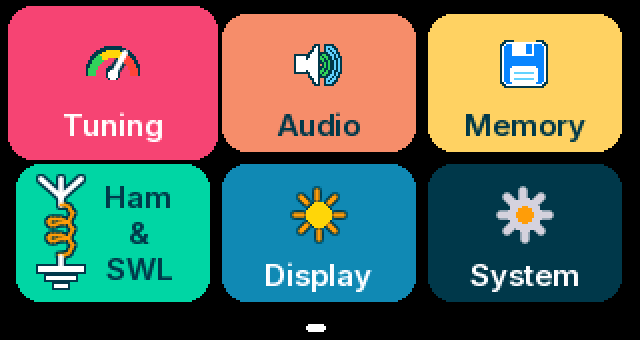
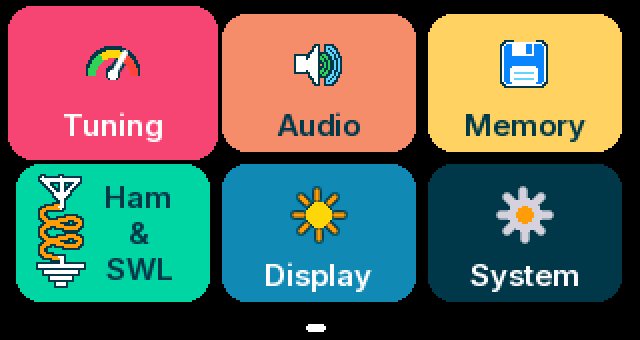
Ham & SWL tile: the picture drawn again after the international amateur radio symbol
Aerial as a triangle on the wire, a coil of two turns with the symbol's own curves, earth as bars; kept as exact pixels (tools/ham_icon.py) in place of lines drawn at run time, which came out blurred.

Changed region(s): [[0.0312, 0.5, 0.1562, 0.8529]]

diff --git a/ats-mini/TileDraw.h b/ats-mini/TileDraw.h
@@ -85,6 +85,54 @@ static void tileFillGradient(S &s, int x, int y, int w, int h, int r, uint16_t t
   }
 }
 
+// The Ham & SWL picture, after the international amateur radio symbol: an
+// aerial (a triangle, point down, on the wire), a coil of two turns drawn
+// with the symbol's own curves, and earth. Two masks, one bit per pixel, 31
+// wide and 59 high: the wire and the coil.
+// tools/ham_icon.py writes the next two tables
+static const uint32_t tileHamWire[59] =
+{
+  0x00000000, 0x00008040, 0x01FFFFE0, 0x01FFFFC0, 0x00C18380, 0x00618300,
+  0x00318600, 0x00198C00, 0x000D9800, 0x000FF000, 0x0007F000, 0x0003E000,
+  0x0001C000, 0x00018000, 0x00018000, 0x00018000, 0x0001C000, 0x00008000,
+  0x00000000, 0x00000000, 0x00000000, 0x00000000, 0x00000000, 0x00000000,
+  0x00000000, 0x00000000, 0x00000000, 0x00000000, 0x00000000, 0x00000000,
+  0x00000000, 0x00000000, 0x00000000, 0x00000000, 0x00000000, 0x00000000,
+  0x00000000, 0x00000000, 0x00000000, 0x00000000, 0x00000000, 0x0001C000,
+  0x00018000, 0x00018000, 0x00018000, 0x07FFFFF0, 0x07FFFFF0, 0x00000000,
+  0x00FFFF80, 0x00FFFF80, 0x00000000, 0x001FFC00, 0x001FFC00, 0x00000000,
+  0x0003E000, 0x0003E000, 0x00000000, 0x00000000, 0x00000000,
+};
+static const uint32_t tileHamCoil[59] =
+{
+  0x00000000, 0x00000000, 0x00000000, 0x00000000, 0x00000000, 0x00000000,
+  0x00000000, 0x00000000, 0x00000000, 0x00000000, 0x00000000, 0x00000000,
+  0x00000000, 0x00000000, 0x00000000, 0x00007000, 0x0000FF00, 0x00007FC0,
+  0x000000E0, 0x00000060, 0x00000060, 0x007C00E0, 0x01FFC1C0, 0x03C7FF80,
+  0x03007F00, 0x0381FF80, 0x01FFE3C0, 0x00FE00E0, 0x00000060, 0x00000060,
+  0x007C00E0, 0x01FFC1C0, 0x03C7FF80, 0x03007F00, 0x0381FF80, 0x01FFE3C0,
+  0x00FE00E0, 0x00000060, 0x00000060, 0x000000E0, 0x000007C0, 0x0000FF80,
+  0x0000F800, 0x00000000, 0x00000000, 0x00000000, 0x00000000, 0x00000000,
+  0x00000000, 0x00000000, 0x00000000, 0x00000000, 0x00000000, 0x00000000,
+  0x00000000, 0x00000000, 0x00000000, 0x00000000, 0x00000000,
+};
+// End of the tables of tools/ham_icon.py
+
+// One of those masks, centred on (x, y), in colour c
+template<typename S>
+static void tileDrawMask(S &s, const uint32_t *rows, int x, int y, uint16_t c)
+{
+  for(int r = 0 ; r < 59 ; r++)
+    for(int b = 0 ; b < 31 ; )
+    {
+      if(!(rows[r] >> b & 1)) { b++; continue; }
+      int e = b;
+      while(e < 31 && (rows[r] >> e & 1)) e++;
+      s.drawFastHLine(x - 15 + b, y - 29 + r, e - b, c);
+      b = e;
+    }
+}
+
 // Icons are drawn in a 26x26 box centred on (x, y), in colour c
 template<typename S>
 static void tileDrawIcon(S &s, TileIcon icon, int x, int y, uint16_t c, uint16_t bg)
@@ -187,27 +235,9 @@ static void tileDrawIcon(S &s, TileIcon icon, int x, int y, uint16_t c, uint16_t
       s.drawWideLine(x - 2, y - 6, x + 13, y - 6, 1.5f, c);
       s.drawWideLine(x - 13, y + 10, x + 13, y + 10, 1.0f, c);
       break;
-    case TI_HAM:         // A station as a circuit diagram draws it: aerial, coil, earth. As tall as the tile: it stands at the tile's side
-      s.drawWideLine(x, y - 27, x, y - 14, 1.3f, c);
-      s.drawWideLine(x, y - 18, x - 10, y - 27, 1.3f, c);
-      s.drawWideLine(x, y - 18, x + 10, y - 27, 1.3f, c);
-      {
-        // The coil: one wire going round on its way down. It leaves the
-        // aerial's wire at the coil's highest point and meets the earth's wire
-        // at its lowest, both on the line of the wire
-        float px = x, py = y - 14;
-        for(int i = 1 ; i <= 40 ; i++)
-        {
-          float t = -1.5707963f + i * 0.3926991f;
-          float nx = x + 6.0f * cosf(t), ny = y - 14 + 1.2732f * (t + 1.5707963f) + 3.0f * (sinf(t) + 1.0f);
-          s.drawWideLine(px, py, nx, ny, 0.8f, c);
-          px = nx; py = ny;
-        }
-      }
-      s.drawWideLine(x, y + 12, x, y + 17, 1.3f, c);
-      s.fillRect(x - 11, y + 17, 23, 3, c);
-      s.fillRect(x - 7, y + 22, 15, 2, c);
-      s.fillRect(x - 3, y + 26, 7, 2, c);
+    case TI_HAM:         // Aerial, coil and earth, as tall as the tile: it stands at the tile's side
+      tileDrawMask(s, tileHamWire, x, y, c);
+      tileDrawMask(s, tileHamCoil, x, y, c);
       break;
     case TI_BEACON:      // Mast with waves
       s.drawWideLine(x, y - 4, x - 6, y + 12, 1.2f, c);
@@ -614,26 +644,8 @@ static void tileDrawIconColor(S &s, TileIcon icon, int x, int y, uint16_t bg)
       s.drawWideLine(x - 13, y + 10, x + 13, y + 10, 1.0f, TC_W);
       break;
     case TI_HAM:         // Aerial, coil and earth: white wire, orange coil
-      s.drawWideLine(x, y - 27, x, y - 14, 1.3f, TC_W);
-      s.drawWideLine(x, y - 18, x - 10, y - 27, 1.3f, TC_W);
-      s.drawWideLine(x, y - 18, x + 10, y - 27, 1.3f, TC_W);
-      {
-        // The coil: one wire going round on its way down. It leaves the
-        // aerial's wire at the coil's highest point and meets the earth's wire
-        // at its lowest, both on the line of the wire
-        float px = x, py = y - 14;
-        for(int i = 1 ; i <= 40 ; i++)
-        {
-          float t = -1.5707963f + i * 0.3926991f;
-          float nx = x + 6.0f * cosf(t), ny = y - 14 + 1.2732f * (t + 1.5707963f) + 3.0f * (sinf(t) + 1.0f);
-          s.drawWideLine(px, py, nx, ny, 0.8f, TC_O);
-          px = nx; py = ny;
-        }
-      }
-      s.drawWideLine(x, y + 12, x, y + 17, 1.3f, TC_W);
-      s.fillRect(x - 11, y + 17, 23, 3, TC_W);
-      s.fillRect(x - 7, y + 22, 15, 2, TC_W);
-      s.fillRect(x - 3, y + 26, 7, 2, TC_W);
+      tileDrawMask(s, tileHamCoil, x, y, TC_O);
+      tileDrawMask(s, tileHamWire, x, y, TC_W);
       break;
     case TI_BEACON:      // Mast with orange waves
       s.drawWideLine(x, y - 4, x - 6, y + 12, 1.2f, TC_W);

diff --git a/tools/ham_icon.py b/tools/ham_icon.py
@@ -1,0 +1,106 @@
+#!/usr/bin/env python3
+"""Draw the picture of the Ham & SWL menu tile and write it into ats-mini/TileDraw.h.
+
+The picture follows the international amateur radio symbol (Wikimedia Commons,
+"International amateur radio symbol.svg" by Denelson83, released into the
+public domain): an aerial as a triangle, point down, on the wire; a coil; and
+earth as bars that get shorter. The coil's turns are the symbol's own curves,
+two of them where the symbol has four, and everything is made wider and
+heavier than in the symbol so that it reads on a screen 170 pixels high.
+
+It is kept in the firmware as two masks of one bit per pixel, 31 wide and 59
+high: the wire (aerial, leads, earth) and the coil. This script draws them at
+eight times the size, reduces them to whole pixels, and replaces the two
+tables in TileDraw.h between the lines that name this script.
+
+    tools/ham_icon.py            write the tables
+    tools/ham_icon.py show x.png also save a picture, six times enlarged
+Needs Pillow.
+"""
+import sys
+from pathlib import Path
+from PIL import Image, ImageDraw
+S = 8; W, H = 31, 59; CX, CY = 15, 29
+TILE = (0, 214, 165); DEEP = (0, 60, 78); WHITE = (255, 255, 255); ORANGE = (255, 159, 28)
+def layer(): im = Image.new("L", (W * S, H * S), 0); return im, ImageDraw.Draw(im)
+def P(x, y): return ((CX + x + 0.5) * S, (CY + y + 0.5) * S)
+def stroke(d, pts, w, caps=True):
+    q = [P(x, y) for x, y in pts]
+    d.line(q, fill=255, width=max(1, int(round(w * S))), joint="curve")
+    if caps:
+        r = w * S / 2
+        for x, y in (q[0], q[-1]): d.ellipse([x - r, y - r, x + r, y + r], fill=255)
+def bez(p0, p1, p2, p3, n=40):
+    out = []
+    for i in range(n + 1):
+        t = i / n; u = 1 - t
+        out.append((u**3 * p0[0] + 3 * u * u * t * p1[0] + 3 * u * t * t * p2[0] + t**3 * p3[0], u**3 * p0[1] + 3 * u * u * t * p1[1] + 3 * u * t * t * p2[1] + t**3 * p3[1]))
+    return out
+def coil(top, n, a, p, q, side=-1):
+    """Points of the coil, downward from the wire at (0, top). side -1: first turn goes left, as the symbol shows it."""
+    R = side * a; L = -side * a
+    pts = bez((0, top), (R * 0.713, top), (R, top + q * 0.395), (R, top + q))          # quarter turn out to the first extreme
+    y = top + q
+    for i in range(n):
+        yl = y + p / 2; yr = y + p
+        pts += bez((R, y), (R, y + 0.49 * p), (L, yl + 0.63 * p), (L, yl))             # across the front, down and back up
+        pts += bez((L, yl), (L, yl - 0.585 * p), (R, yr - 0.50 * p), (R, yr))          # across the back, up and down
+        y = yr
+    pts += bez((R, y), (R, y + q * 0.605), (R * 0.713, y + q), (0, y + q))             # quarter turn back to the wire
+    return pts, y + q
+def build(n, a, p, q, wc, ww=2.0, bars=4, top=-13, tri=(9, 10)):
+    wi, dw = layer(); co, dc = layer()
+    pts, bot = coil(top, n, a, p, q)
+    stroke(dc, pts, wc, caps=False)
+    hw, th = tri
+    stroke(dw, [(-hw, -27), (hw, -27), (0, -27 + th), (-hw, -27)], ww - 0.2)            # the aerial: a triangle, point down
+    stroke(dw, [(0, -27), (0, top)], ww); stroke(dw, [(0, bot), (0, 16)], ww)
+    g = 16; half = 11
+    for b in range(bars):
+        dw.rectangle([(CX - half) * S, (CY + g) * S, (CX + half + 1) * S - 1, (CY + g + 2) * S - 1], fill=255)
+        g += 3; half -= 3
+    f = lambda im: im.resize((W, H), Image.BOX).point(lambda v: 255 if v >= 112 else 0)
+    return f(wi), f(co), bot
+def paint(wi, co, scale=1, one_colour=False):
+    im = Image.new("RGB", (W, H), TILE); px = im.load(); a = wi.load(); b = co.load()
+    solid = [[a[x, y] or b[x, y] for x in range(W)] for y in range(H)]
+    for y in range(H):
+        for x in range(W):
+            if not solid[y][x] and any(0 <= x + dx < W and 0 <= y + dy < H and solid[y + dy][x + dx] for dx in (-1, 0, 1) for dy in (-1, 0, 1)): px[x, y] = DEEP
+            elif b[x, y] and not a[x, y]: px[x, y] = WHITE if one_colour else ORANGE
+            elif a[x, y]: px[x, y] = WHITE
+    return im.resize((W * scale, H * scale), Image.NEAREST)
+
+TURNS = dict(n=2, a=9.5, p=9.0, q=3.6, wc=2.0)
+ROOT = Path(__file__).resolve().parent.parent
+HEADER = ROOT / "ats-mini" / "TileDraw.h"
+BEGIN = "// tools/ham_icon.py writes the next two tables"
+END = "// End of the tables of tools/ham_icon.py"
+
+
+def table(name, mask):
+    px = mask.load()
+    rows = []
+    for y in range(H):
+        v = 0
+        for x in range(W):
+            if px[x, y]:
+                v |= 1 << x
+        rows.append("0x%08X" % v)
+    lines = ["  " + ", ".join(rows[i:i + 6]) + "," for i in range(0, H, 6)]
+    return "static const uint32_t %s[%d] =\n{\n%s\n};\n" % (name, H, "\n".join(lines))
+
+
+def main():
+    wire, coil_mask, _ = build(**TURNS)
+    text = HEADER.read_text()
+    a = text.index(BEGIN) + len(BEGIN) + 1
+    b = text.index(END)
+    HEADER.write_text(text[:a] + table("tileHamWire", wire) + table("tileHamCoil", coil_mask) + text[b:])
+    if len(sys.argv) == 3 and sys.argv[1] == "show":
+        paint(wire, coil_mask, 6).save(sys.argv[2])
+    print("TileDraw.h: Ham & SWL picture, %d x %d" % (W, H))
+
+
+if __name__ == "__main__":
+    main()

diff --git a/changelog/+ham-swl-tile.changed.md b/changelog/+ham-swl-tile.changed.md
@@ -1,1 +1,1 @@
-The **Ham & SWL** tile of the menu has a picture of its own: an aerial, a coil and earth, as a circuit diagram draws them, standing at the side of the tile with the name beside it. It had shared the mast of the Beacons tile.
+The **Ham & SWL** tile of the menu has a picture of its own, after the international amateur radio symbol: an aerial, a coil and earth, standing at the side of the tile with the name beside it. It had shared the mast of the Beacons tile. The picture is kept as exact pixels, drawn by `tools/ham_icon.py`.
